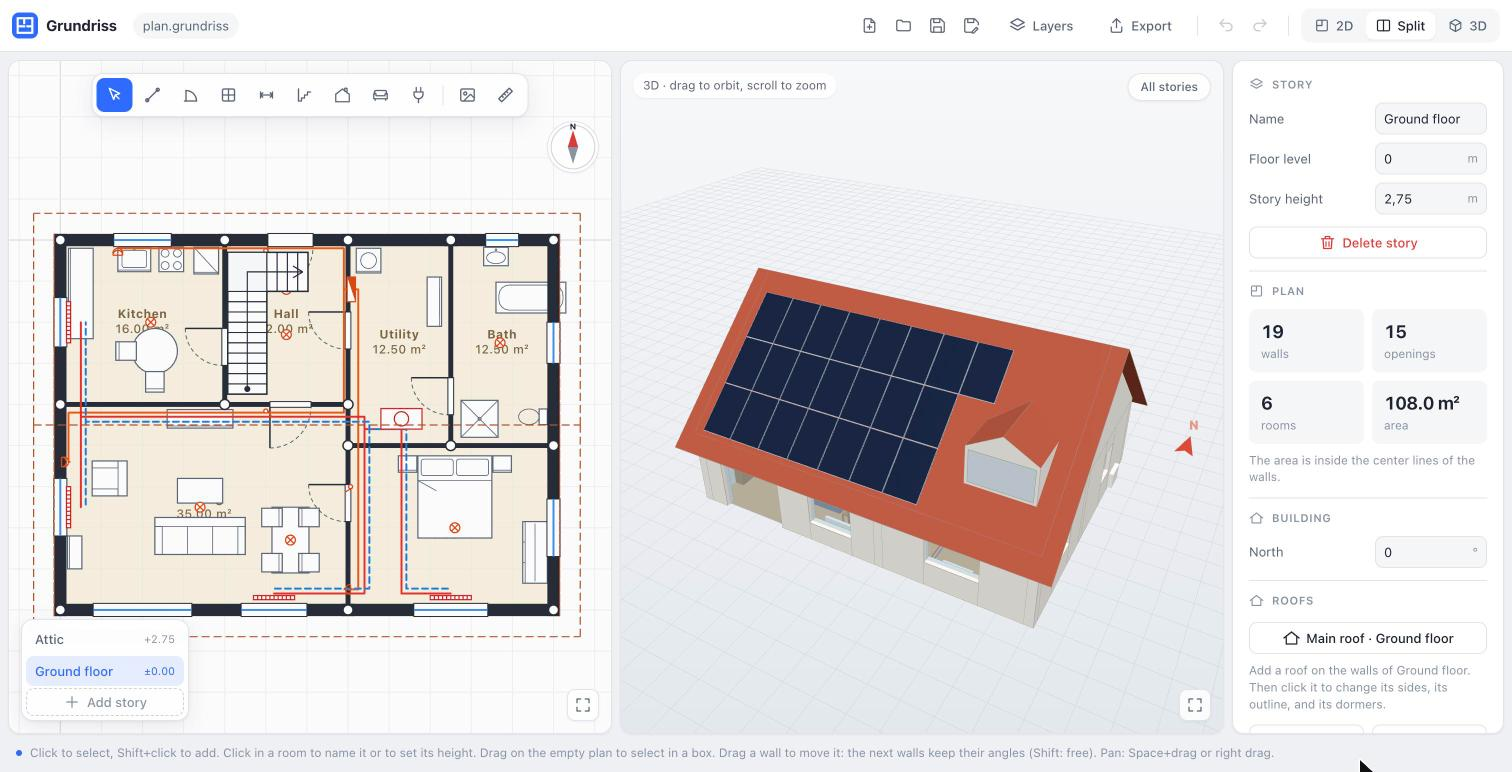
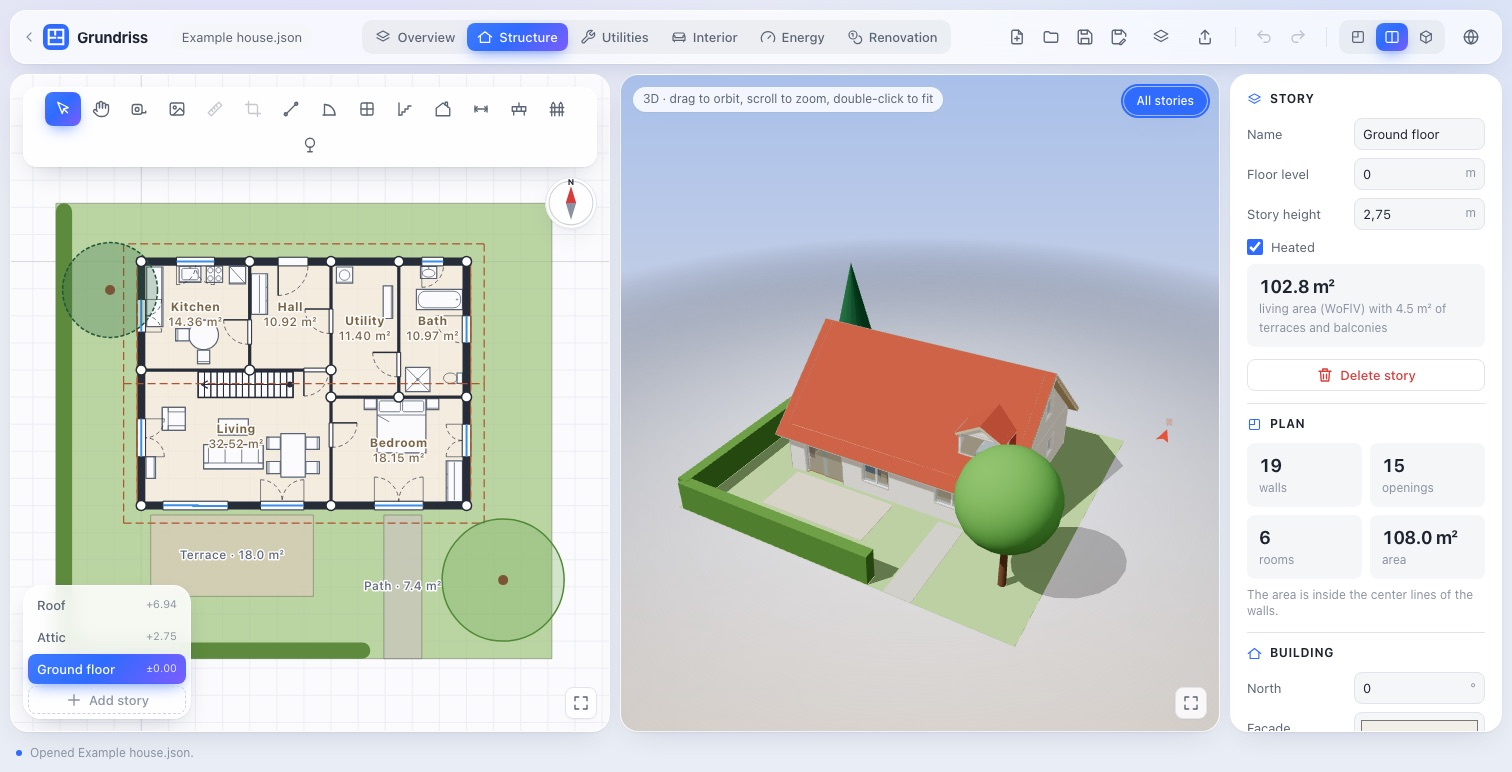
docs: show the new look and the garden in the pictures of the README
Claude-Session: https://claude.ai/code/session_01FW6WZaQFUUdYwwDdU1q6Pt

diff --git a/README.md b/README.md
@@ -24,7 +24,7 @@
 </p>
 
 <p align="center">
-  <img src="docs/images/app.jpg" alt="The app: the plan of a house in 2D and the same house in 3D" width="900" />
+  <img src="docs/images/app.jpg" alt="The app: the plan of a house with its garden in 2D, and the same house in 3D" width="900" />
 </p>
 
 _Grundriss_ is the German word for a floor plan. The app runs fully in your browser. It needs no
